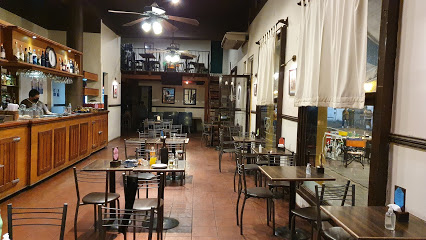
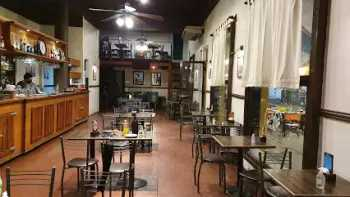
Version 20210503

diff --git a/victoria/css/index.css b/victoria/css/index.css
@@ -1,0 +1,110 @@
+/*
+ * Licensed to the Apache Software Foundation (ASF) under one
+ * or more contributor license agreements.  See the NOTICE file
+ * distributed with this work for additional information
+ * regarding copyright ownership.  The ASF licenses this file
+ * to you under the Apache License, Version 2.0 (the
+ * "License"); you may not use this file except in compliance
+ * with the License.  You may obtain a copy of the License at
+ *
+ * http://www.apache.org/licenses/LICENSE-2.0
+ *
+ * Unless required by applicable law or agreed to in writing,
+ * software distributed under the License is distributed on an
+ * "AS IS" BASIS, WITHOUT WARRANTIES OR CONDITIONS OF ANY
+ * KIND, either express or implied.  See the License for the
+ * specific language governing permissions and limitations
+ * under the License.
+ */
+* {
+    -webkit-tap-highlight-color: rgba(0,0,0,0); /* make transparent link selection, adjust last value opacity 0 to 1.0 */
+}
+
+body {
+    -webkit-touch-callout: none;                /* prevent callout to copy image, etc when tap to hold */
+    -webkit-text-size-adjust: none;             /* prevent webkit from resizing text to fit */
+    -webkit-user-select: none;                  /* prevent copy paste, to allow, change 'none' to 'text' */
+    background-color:#E4E4E4;
+    background-image:linear-gradient(to bottom, #A7A7A7 0%, #E4E4E4 51%);
+    font-family: system-ui, -apple-system, -apple-system-font, 'Segoe UI', 'Roboto', sans-serif;
+    font-size:12px;
+    height:100vh;
+    margin:0px;
+    padding:0px;
+    /* Padding to avoid the "unsafe" areas behind notches in the screen */
+    padding: env(safe-area-inset-top, 0px) env(safe-area-inset-right, 0px) env(safe-area-inset-bottom, 0px) env(safe-area-inset-left, 0px);
+    text-transform:uppercase;
+    width:100%;
+}
+
+/* Portrait layout (default) */
+.app {
+    background:url(../img/logo.png) no-repeat center top; /* 170px x 200px */
+    position:absolute;             /* position in the center of the screen */
+    left:50%;
+    top:50%;
+    height:50px;                   /* text area height */
+    width:225px;                   /* text area width */
+    text-align:center;
+    padding:180px 0px 0px 0px;     /* image height is 200px (bottom 20px are overlapped with text) */
+    margin:-115px 0px 0px -112px;  /* offset vertical: half of image height and text area height */
+                                   /* offset horizontal: half of text area width */
+}
+
+/* Landscape layout (with min-width) */
+@media screen and (min-aspect-ratio: 1/1) and (min-width:400px) {
+    .app {
+        background-position:left center;
+        padding:75px 0px 75px 170px;  /* padding-top + padding-bottom + text area = image height */
+        margin:-90px 0px 0px -198px;  /* offset vertical: half of image height */
+                                      /* offset horizontal: half of image width and text area width */
+    }
+}
+
+h1 {
+    font-size:24px;
+    font-weight:normal;
+    margin:0px;
+    overflow:visible;
+    padding:0px;
+    text-align:center;
+}
+
+.event {
+    border-radius:4px;
+    color:#FFFFFF;
+    font-size:12px;
+    margin:0px 30px;
+    padding:2px 0px;
+}
+
+.event.listening {
+    background-color:#333333;
+    display:block;
+}
+
+.event.received {
+    background-color:#4B946A;
+    display:none;
+}
+
+#deviceready.ready .event.listening { display: none; }
+#deviceready.ready .event.received { display: block; }
+
+@keyframes fade {
+    from { opacity: 1.0; }
+    50% { opacity: 0.4; }
+    to { opacity: 1.0; }
+}
+
+.blink {
+    animation:fade 3000ms infinite;
+    -webkit-animation:fade 3000ms infinite;
+}
+
+
+@media screen and (prefers-color-scheme: dark) {
+    body {
+        background-image:linear-gradient(to bottom, #585858 0%, #1B1B1B 51%);
+    }
+}

diff --git a/victoria/index.html b/victoria/index.html
@@ -28,7 +28,7 @@
 
     <div class="row clr_fondo">
         <div class="col-12" style="padding:0em;">
-            <img src="images/victoria.webp" width="" height="" border="0" alt="casino" class="img-responsive">
+            <img src="images/victoria.jpg" width="916" height="136" border="0" alt="costanera, abadia" class="img-responsive">
         </div>
     </div>
 
@@ -47,20 +47,20 @@
             <h2>Gastronomía</h2>
             <p>
                 <a href="gastronomia.html">
-                    <img src="images/cerveceria.webp" width="142" height="130" border="0" alt="cervecerías" class="img-responsive"></a>
+                    <img src="images/cerveceria.jpg" width="142" height="130" border="0" alt="cervecerías" class="img-responsive"></a>
             </p>
         </div>
         <div class="col-4" style="text-align: center;">
             <h2>Termas</h2>
             <p>
                 <a href="termas.html">
-                    <img src="images/termas.webp" width="142" height="130" border="0" alt="Termas" class="img-responsive"></a>
+                    <img src="images/termas.jpg" width="142" height="130" border="0" alt="Termas" class="img-responsive"></a>
             </p>
         </div>
         <div class="col-4" style="text-align: center;">
             <h2>Electrodomésticos</h2>
             <p><a href="electrodomesticos.html">
-               <img src="images/electrodomesticos.webp" width="142" height="130" border="0" alt="Termas" class="img-responsive"></a>
+               <img src="images/electrodomesticos.jpg" width="142" height="130" border="0" alt="Termas" class="img-responsive"></a>
             </p>
         </div>
     </div>
@@ -70,18 +70,18 @@
             <h2>Rubro 4</h2>
             <p>
                 <a href="#.html">
-                    <img src="images/rubro4.webp" width="142" height="130" border="0" alt="cervecerías" class="img-responsive"></a>
+                    <img src="images/rubro4.jpg" width="142" height="130" border="0" alt="cervecerías" class="img-responsive"></a>
             </p>
         </div>
         <div class="col-4" style="text-align: center;">
             <h2>Rubro 5</h2>
             <p>
                 <a href="#">
-                    <img src="images/rubro5.webp" width="142" height="130" border="0" alt="Termas" class="img-responsive"></a>
+                    <img src="images/rubro5.jpg" width="142" height="130" border="0" alt="Termas" class="img-responsive"></a>
             </p>
         </div>
         <div class="col-4" style="text-align: center;">
-            <p>En esta sección colocaríamos enlaces a comercios de cada rubro.<br> Próximo paso: utilizando ejemplos de datos provistos.
+            <p>En esta sección colocaríamos enlaces a los diferentes rubros.
             </p>
         </div>
     </div>

diff --git a/victoria/gastronomia.html b/victoria/gastronomia.html
@@ -37,7 +37,7 @@
             <a href="./sitios/trekboer.html" target="search_iframe">
                 <div class="grid4c">
                     <div class="uno">
-											<img src="images/logo-trekboer.webp" border="0" alt="trekboer" class="img-responsive">
+											<img src="images/logo-trekboer.jpg" border="0" alt="trekboer" class="img-responsive">
 										</div>
                     <div class="dos-cuatro">
                         <p>TrekBóer<br> Cerveza Artesanal</p>
@@ -47,7 +47,7 @@
 
             <a href="./sitios/serafina.html" target="search_iframe">
                 <div class="grid4c">
-                    <div class="uno"><img src="images/logo-serafina.webp" border="0" alt="Serafina" class="img-responsive"></div>
+                    <div class="uno"><img src="images/logo-serafina.jpg" border="0" alt="Serafina" class="img-responsive"></div>
                     <div class="dos-cuatro">
                         <p style="align: left;">Serafina Bistró</p>
                     </div>
@@ -56,7 +56,7 @@
 
             <a href="./sitios/ciervorojo.html" target="search_iframe">
                 <div class="grid4c">
-                    <div class="uno"><img src="images/logo-ciervorojo.webp" border="0" alt="ciervo rojo" class="img-responsive"></div>
+                    <div class="uno"><img src="images/logo-ciervorojo.jpg" border="0" alt="ciervo rojo" class="img-responsive"></div>
                     <div class="dos-cuatro">
                         <p>Ciervo Rojo<br>Fiambrería</p>
                     </div>

diff --git a/victoria/js/index.js b/victoria/js/index.js
@@ -1,0 +1,29 @@
+/*
+ * Licensed to the Apache Software Foundation (ASF) under one
+ * or more contributor license agreements.  See the NOTICE file
+ * distributed with this work for additional information
+ * regarding copyright ownership.  The ASF licenses this file
+ * to you under the Apache License, Version 2.0 (the
+ * "License"); you may not use this file except in compliance
+ * with the License.  You may obtain a copy of the License at
+ *
+ * http://www.apache.org/licenses/LICENSE-2.0
+ *
+ * Unless required by applicable law or agreed to in writing,
+ * software distributed under the License is distributed on an
+ * "AS IS" BASIS, WITHOUT WARRANTIES OR CONDITIONS OF ANY
+ * KIND, either express or implied.  See the License for the
+ * specific language governing permissions and limitations
+ * under the License.
+ */
+
+// Wait for the deviceready event before using any of Cordova's device APIs.
+// See https://cordova.apache.org/docs/en/latest/cordova/events/events.html#deviceready
+document.addEventListener('deviceready', onDeviceReady, false);
+
+function onDeviceReady() {
+    // Cordova is now initialized. Have fun!
+
+    console.log('Running cordova-' + cordova.platformId + '@' + cordova.version);
+    document.getElementById('deviceready').classList.add('ready');
+}

diff --git a/victoria/termas.html b/victoria/termas.html
@@ -37,7 +37,7 @@
             <a href="./sitios/VictoriaDelAgua.html" target="search_iframe">
                 <div class="grid4c">
                     <div class="uno">
-											<img src="images/VictoriaDelAgua.webp" border="0" alt="Victoria Del Agua" class="img-responsive">
+											<img src="images/VictoriaDelAgua.jpg" border="0" alt="Victoria Del Agua" class="img-responsive">
 										</div>
                     <div class="dos-cuatro">
                         <p>Victoria del agua</p>
@@ -47,7 +47,7 @@
 
             <a href="./sitios/enConstruccion.html" target="search_iframe">
                 <div class="grid4c">
-                    <div class="uno"><img src="images/enConstruccion.webp" border="0" alt="enConstruccion" class="img-responsive"></div>
+                    <div class="uno"><img src="images/enConstruccion.jpg" border="0" alt="enConstruccion" class="img-responsive"></div>
                     <div class="dos-cuatro">
                         <p style="align: left;">En Consruccion</p>
                     </div>

diff --git a/victoria/quienes-somos.html b/victoria/quienes-somos.html
@@ -45,7 +45,7 @@
         <div class="row clr_fondo" style="padding: 20px;">
             <div class="col-1"></div>
             <div class="col-1" style="text-align: center;">
-                <img src="images/logo-victoria.webp" style="border-radius: 50%;" width="52" height="67" border="0" alt="Guillermo" class="img-responsive">
+                <img src="images/logo-victoria.jpg" style="border-radius: 50%;" width="52" height="67" border="0" alt="Guillermo" class="img-responsive">
             </div>
             <div class="col-8">
                 <p>Grupo de comerciantes y prestadores de servicios que ta, ta, ta, sarasa, sarasa.</p>

diff --git a/victoria/EnConstruccion.html b/victoria/EnConstruccion.html
@@ -36,7 +36,7 @@
 
             <a href="./sitios/enConstruccion.html" target="search_iframe">
                 <div class="grid4c">
-                    <div class="uno"><img src="images/enConstruccion.webp" border="0" alt="enConstruccion" class="img-responsive"></div>
+                    <div class="uno"><img src="images/enConstruccion.jpg" border="0" alt="enConstruccion" class="img-responsive"></div>
                     <div class="dos-cuatro">
                         <p style="align: left;">En Construcción</p>
                     </div>

diff --git a/victoria/electrodomesticos.html b/victoria/electrodomesticos.html
@@ -35,7 +35,7 @@
 
             <a href="./sitios/enConstruccion.html" target="search_iframe">
                 <div class="grid4c">
-                    <div class="uno"><img src="images/enConstruccion.webp" border="0" alt="enConstruccion" class="img-responsive"></div>
+                    <div class="uno"><img src="images/enConstruccion.jpg" border="0" alt="enConstruccion" class="img-responsive"></div>
                     <div class="dos-cuatro">
                         <p style="align: left;">En Construcción</p>
                     </div>

diff --git a/victoria/sitios/serafina.html b/victoria/sitios/serafina.html
@@ -25,7 +25,7 @@
     <div class="container" style="padding: 10px;">
         <!-- Contenido de la pagina -->
         <a name="TopOfPage"></a>
-				<img src="../images/logo-serafina.webp" border="0" alt="serafina bistro" class="img-responsive">
+				<img src="../images/logo-serafina.jpg" border="0" alt="serafina bistro" class="img-responsive">
         <h1>Serafina Bistro</h1>
 				<p>Restaurante y cafetería. Mitre 463. 3436-495600. Lunes a Lunes de 8hs a 23hs. Retiro por el local/Delivery</p>
 				<dl><dt>PROMO 1:</dt>

diff --git a/victoria/sitios/VictoriaDelAgua.html b/victoria/sitios/VictoriaDelAgua.html
@@ -25,7 +25,7 @@
     <div class="container" style="padding: 10px;">
         <!-- Contenido de la pagina -->
         <a name="TopOfPage"></a>
-				<img src="../images/VictoriaDelAgua.webp" border="0" alt="serafina bistro" class="img-responsive">
+				<img src="../images/VictoriaDelAgua.jpg" border="0" alt="Victoria del agua" class="img-responsive">
         <h1>Victoria del Agua</h1>
 				<p>Termas, etc, etc, etc. Bla, bla, bla.</p>
 				<dl><dt>Reservas:</dt>

diff --git a/victoria/sitios/trekboer.html b/victoria/sitios/trekboer.html
@@ -25,7 +25,7 @@
     <div class="container" style="padding: 10px;">
         <!-- Contenido de la pagina -->
         <a name="TopOfPage"></a>
-				<img src="../images/logo-trekboer.webp" border="0" alt="Trek Bóer" class="img-responsive">
+				<img src="../images/logo-trekboer.jpg" border="0" alt="Trek Bóer" class="img-responsive">
         <h1>Trek Bóer - Cerveza Artesanal</h1>
 				<p>Fábrica de cerveza<br> 
 					Junín 682 (e/Urquiza y 1 de Mayo)<br>

diff --git a/victoria/sitios/EnConstruccion.html b/victoria/sitios/EnConstruccion.html
@@ -25,7 +25,7 @@
     <div class="container" style="padding: 10px;">
         <!-- Contenido de la pagina -->
         <a name="TopOfPage"></a>
-				<img src="../images/enConstruccion.webp" border="0" alt="serafina bistro" class="img-responsive">
+				<img src="../images/enConstruccion.jpg" border="0" alt="serafina bistro" class="img-responsive">
         <h1>En Construccion</h1>
 				<p>Esta página está en construcción</p>
         <!-- fin contenido -->
